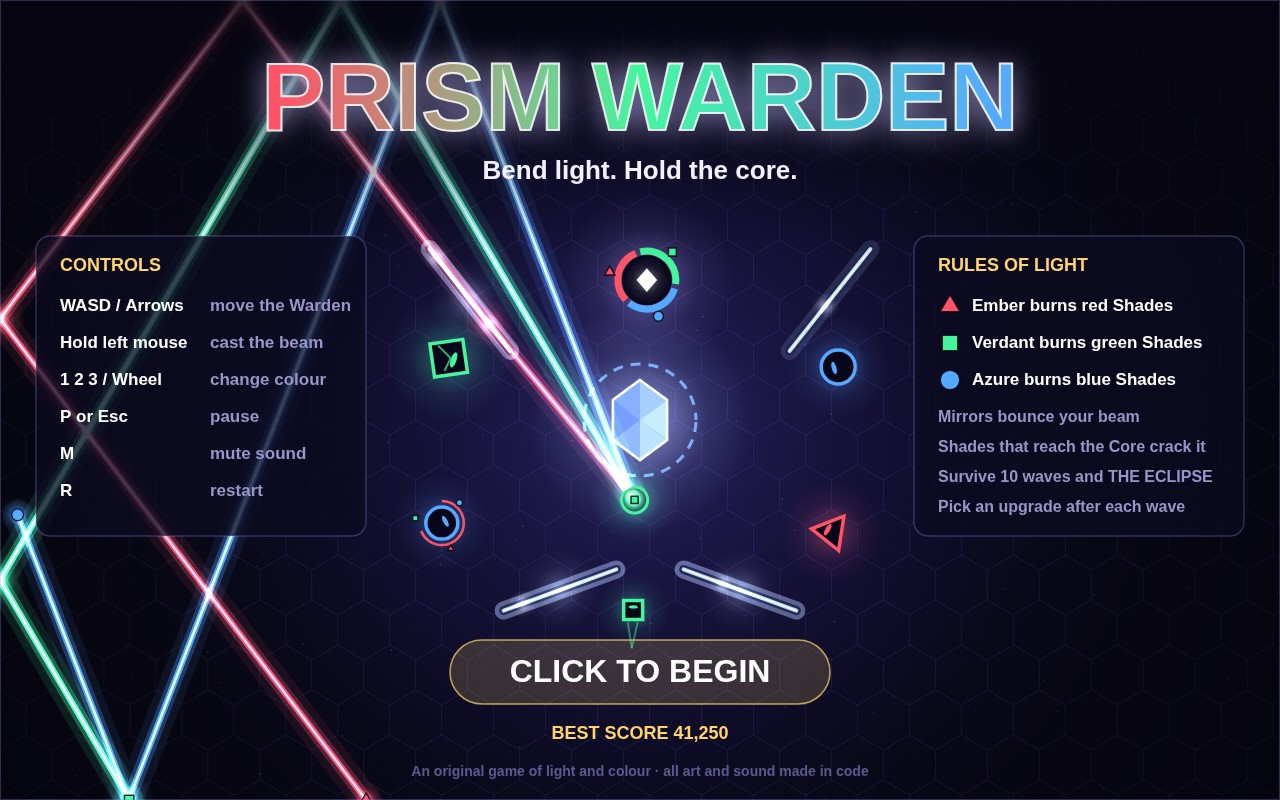
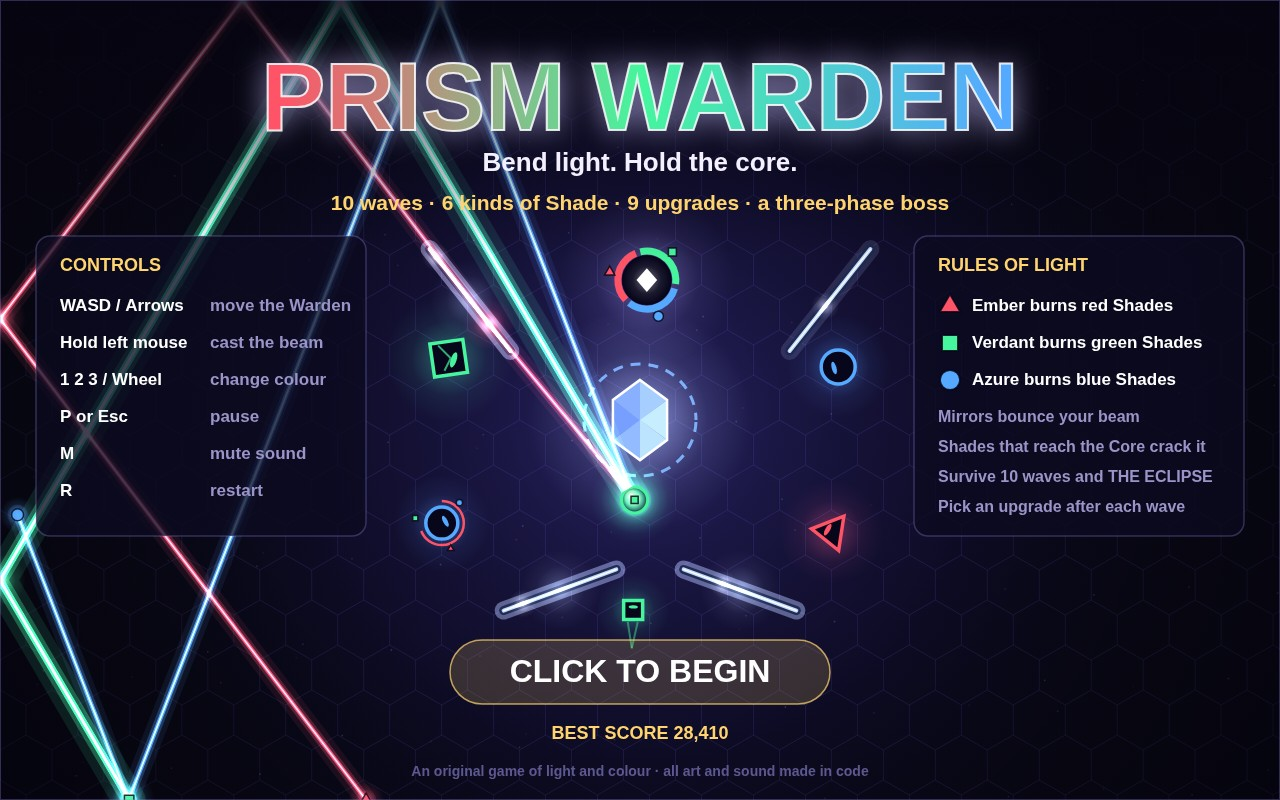
One best-score story across screenshots, readable cover beams, real boss-fight scene, depth line on title
- Shot scenes share one recorded best (28,410): title and play HUD show it, the winning run beats it (results show NEW BEST over PREVIOUS BEST); hard-coded 41,250 removed
- Cover framing requires a long main beam from the Warden in the selected colour plus long Prism branches and bounces, and nothing over the Core; main beam drawn thicker with a muzzle flare, branches thinner
- Combo milestone pop moves beside the combo counter instead of over the Warden/Core
- ?shot=boss now searches for a real fight frame (matching colour on THE ECLIPSE, branches, multi-colour minions, phase bar mid-way, label clear) using a boss-focused pilot
- Title adds '10 waves · 6 kinds of Shade · 9 upgrades · a three-phase boss' computed from the code

diff --git a/game/js/shots.js b/game/js/shots.js
@@ -1,28 +1,33 @@
 // Screenshot scenes behind ?shot=title|play|upgrade|boss|results|defeat&seed=n: the real game played forward by the autopilot at fixed steps, frozen on the moment.
-import { STEP } from './config.js';
+import { CORE_X, CORE_Y, STEP } from './config.js';
 import { autopilotControls, autopilotPick, createPilot } from './autopilot.js';
 import { beginWave, createWorld, stepWorld } from './world.js';
 import { applyUpgrade, dealUpgradeCards } from './upgrades.js';
-import { liveParticleCount, updateEffects, clearEffects } from './particles.js';
+import { clearEffects, floatersNear, liveParticleCount, updateEffects } from './particles.js';
+import { loadBestScore, saveBestScore } from './storage.js';
 import { simRandom } from './random.js';
 import { updateTitleScene } from './screens.js';
 
 /** The upgrades a shot's pilot prefers: the ones that show off split and reflected light. */
 const SHOT_PICKS = ['prism', 'reflect', 'lens', 'focus', 'chain', 'bastion', 'lance', 'harvest', 'swift'];
 const MAX_SECONDS = 60 * 12;
+/**
+ * The best score already on record in every scene's browser profile, so the four screenshots tell one story:
+ * the title and the play HUD show it, and the winning run on the results beats it.
+ */
+const RECORDED_BEST = 28410;
 
 /**
  * Plays a run with the autopilot until `stop(world, step)` says so (checked once a step), taking upgrades on the way.
  * Returns the world, or null if the run ended or ran out of time first.
  */
-function playUntil(seed, stop, picks = SHOT_PICKS) {
+function playUntil(seed, stop, pilot = createPilot(0)) {
   const world = createWorld(seed);
-  const pilot = createPilot(0);
   for (let step = 0; step < MAX_SECONDS / STEP; step += 1) {
     if (world.state === 'cleared' && world.stateTime > 1.3) {
       if (stop(world, step)) return world;
       const hand = dealUpgradeCards(world.upgrades, simRandom, world.core.hp / world.core.maxHp);
-      const preferred = picks.find((id) => hand.includes(id));
+      const preferred = SHOT_PICKS.find((id) => hand.includes(id));
       applyUpgrade(world, preferred ?? hand[autopilotPick(hand, world.upgrades)]);
       beginWave(world, world.wave + 1);
     }
@@ -35,40 +40,100 @@ function playUntil(seed, stop, picks = SHOT_PICKS) {
   return null;
 }
 
-/**
- * How striking a mid-run frame is: many Shades of several kinds on screen, split and bounced beams, a live combo,
- * particles. Frames that would hide the HUD story (a banner, a hurt Core, the Warden under a panel) score -1.
- */
-function dramaScore(world) {
-  if (world.wave !== 7 || world.state !== 'fight' || world.banner) return -1;
-  const warden = world.warden;
-  if (world.core.hp < world.core.maxHp * 0.6 || warden.y < 150 || warden.y > 680 || world.beams.length < 3) return -1;
-  const onScreen = world.shades.filter((s) => !s.dead && s.x > 20 && s.x < 1260 && s.y > 110 && s.y < 720);
-  const kinds = new Set(onScreen.map((s) => s.kind)).size;
-  const bounces = world.beams.reduce((sum, beam) => sum + beam.bounces.length / 2, 0);
-  const hits = world.beams.reduce((sum, beam) => sum + beam.hits.length, 0);
-  return onScreen.length + kinds * 3 + Math.min(bounces, 5) * 3 + hits * 2 + Math.min(world.combo, 40) / 2 + liveParticleCount() / 60;
+/** Length of a beam's polyline, and of its first leg (the part that leaves the Warden). */
+function beamLengths(beam) {
+  let total = 0;
+  let first = 0;
+  for (let i = 2; i < beam.points.length; i += 2) {
+    const leg = Math.hypot(beam.points[i] - beam.points[i - 2], beam.points[i + 1] - beam.points[i - 1]);
+    if (i === 2) first = leg;
+    total += leg;
+  }
+  return { total, first };
 }
 
-/** Plays wave 7 once to find its most dramatic step, then replays the same seed to exactly that step. */
-function mostDramaticMoment(seed) {
+/** Facts shared by both mid-run framings: Shades on screen, kinds, colours, bounces, hits. */
+function frameFacts(world) {
+  const onScreen = world.shades.filter((s) => !s.dead && s.kind !== 'eclipse' && s.x > 20 && s.x < 1260 && s.y > 110 && s.y < 720);
+  return {
+    onScreen,
+    kinds: new Set(onScreen.map((s) => s.kind)).size,
+    colours: new Set(onScreen.map((s) => s.colour)).size,
+    bounces: world.beams.reduce((sum, beam) => sum + beam.bounces.length / 2, 0),
+    hits: world.beams.reduce((sum, beam) => sum + beam.hits.length, 0),
+  };
+}
+
+/** True when the beams read at a glance: a long main beam leaving the Warden, and every Prism branch long too. */
+function beamsReadable(world, mainFirst, branchTotal, minBeams) {
+  if (world.beams.length < minBeams) return false;
+  const [main, ...branches] = world.beams.map(beamLengths);
+  return main.first >= mainFirst && branches.every((b) => b.total >= branchTotal);
+}
+
+/**
+ * How striking a wave-7 frame is. Frames that would muddle the story score -1: a banner, a hurt Core, text over the
+ * Core, the Warden under a HUD panel, a short main beam or stubby branches.
+ */
+function waveDrama(world) {
+  if (world.wave !== 7 || world.state !== 'fight' || world.banner) return -1;
+  const warden = world.warden;
+  if (world.core.hp < world.core.maxHp * 0.6 || warden.y < 150 || warden.y > 660 || warden.x < 60 || warden.x > 1220) return -1;
+  if (floatersNear(CORE_X, CORE_Y, 90) > 0 || !beamsReadable(world, 220, 200, 3)) return -1;
+  const main = beamLengths(world.beams[0]);
+  const facts = frameFacts(world);
+  if (facts.bounces < 2 || main.total < 400 || world.combo < 5 || facts.onScreen.length < 10) return -1;
+  return Math.min(main.total, 700) / 70 + facts.onScreen.length + facts.kinds * 3 + Math.min(facts.bounces, 5) * 3 + facts.hits * 2
+    + Math.min(world.combo, 40) / 2 + liveParticleCount() / 60;
+}
+
+/**
+ * How striking a boss frame is: the Warden casting THE ECLIPSE's own colour into it, branches and bounces,
+ * minions of several colours, its phase bar mid-way, and its name label clear of everything.
+ */
+function bossDrama(world) {
+  const boss = world.boss;
+  if (world.wave !== 10 || world.state !== 'fight' || world.banner || !boss || boss.dead || boss.entering > 0) return -1;
+  if (boss.phase !== 1 || boss.hp > boss.maxHp * 0.7 || boss.hp < boss.maxHp * 0.3) return -1;
+  const warden = world.warden;
+  const main = world.beams[0];
+  if (!main || main.colour !== boss.colour || !main.hits.some((hit) => hit.shade === boss)) return -1;
+  if (boss.x < 160 || boss.x > 1120 || boss.y < 230 || boss.y > 600 || warden.y < 150 || warden.y > 660) return -1;
+  if (floatersNear(CORE_X, CORE_Y, 90) > 0 || !beamsReadable(world, 120, 160, 2)) return -1;
+  const label = { left: boss.x - 80, right: boss.x + 80, top: boss.y + boss.r + 14, bottom: boss.y + boss.r + 52 };
+  const blocksLabel = (x, y, r) => x + r > label.left && x - r < label.right && y + r > label.top && y - r < label.bottom;
+  if (blocksLabel(warden.x, warden.y, warden.r + 6) || world.shades.some((s) => !s.dead && s !== boss && blocksLabel(s.x, s.y, s.r))) return -1;
+  if (world.beams.some((beam) => beam.points.some((v, i) => i % 2 === 0 && blocksLabel(v, beam.points[i + 1], 4)))) return -1;
+  const facts = frameFacts(world);
+  if (facts.onScreen.length < 3 || facts.colours < 2) return -1;
+  return facts.onScreen.length * 2 + world.beams.length * 6 + facts.colours * 4 + facts.kinds * 2 + Math.min(facts.bounces, 5) * 3 + facts.hits * 2
+    + (world.core.hp / world.core.maxHp) * 12 + liveParticleCount() / 60;
+}
+
+/**
+ * Plays the run once, scoring every step with `drama`, until `done(world)`; then replays the same seed to exactly
+ * the best-scoring step (the rules are deterministic, so the replay lands on the same frame).
+ */
+function mostDramaticMoment(seed, drama, done, makePilot) {
   let bestStep = -1;
   let bestScore = 0;
   playUntil(seed, (world, step) => {
-    const score = dramaScore(world);
+    const score = drama(world);
     if (score > bestScore) {
       bestScore = score;
       bestStep = step;
     }
-    return world.wave > 7 || (world.wave === 7 && world.state === 'cleared');
-  });
+    return done(world);
+  }, makePilot());
   if (bestStep < 0) return null;
   clearEffects();
-  return playUntil(seed, (world, step) => step === bestStep);
+  return playUntil(seed, (world, step) => step === bestStep, makePilot());
 }
 
 /** Sets up scene `kind` from `seed`, draws it once and flags `window.__shotReady` for the capture script. */
 export function runShotScene(game, kind, seed, hooks) {
+  saveBestScore(RECORDED_BEST);
+  game.best = Math.max(loadBestScore(), RECORDED_BEST);
   let world = null;
   for (let attempt = 0; attempt < 6 && !world; attempt += 1) {
     const runSeed = seed + attempt * 101;
@@ -80,12 +145,14 @@ export function runShotScene(game, kind, seed, hooks) {
           updateEffects(STEP);
         }
         game.time = 4.6;
-        game.best = Math.max(game.best, 41250);
         hooks.setMode('title');
         world = game.titleScene;
         break;
       case 'play':
-        world = mostDramaticMoment(runSeed);
+      case 'boss':
+        world = kind === 'play'
+          ? mostDramaticMoment(runSeed, waveDrama, (w) => w.wave > 7 || (w.wave === 7 && w.state === 'cleared'), () => createPilot(0))
+          : mostDramaticMoment(runSeed, bossDrama, (w) => w.wave === 10 && w.boss && (w.boss.dead || w.boss.phase > 1), () => createPilot(0, 0, true));
         if (world) {
           game.world = world;
           game.colour = world.warden.colour;
@@ -102,14 +169,6 @@ export function runShotScene(game, kind, seed, hooks) {
           hooks.setMode('upgrade');
         }
         break;
-      case 'boss':
-        world = playUntil(runSeed, (w) => w.boss && !w.boss.dead && w.boss.phase === 1 && w.boss.hp < w.boss.maxHp * 0.7 && w.beams.length > 0);
-        if (world) {
-          game.world = world;
-          game.colour = world.warden.colour;
-          hooks.setMode('play');
-        }
-        break;
       case 'results':
       case 'defeat': {
         const wanted = kind === 'results' ? 'won' : 'lost';
@@ -118,8 +177,9 @@ export function runShotScene(game, kind, seed, hooks) {
           : playIdleUntilLost(runSeed);
         if (world && world.state === wanted) {
           game.world = world;
-          game.newBest = true;
-          game.best = world.score;
+          game.previousBest = game.best;
+          game.newBest = world.score > game.best;
+          game.best = Math.max(saveBestScore(world.score), world.score, game.best);
           game.time = 0.25;
           hooks.setMode('results');
         } else {
@@ -134,7 +194,7 @@ export function runShotScene(game, kind, seed, hooks) {
   }
   hooks.drawFrame();
   window.__shotReady = true;
-  window.__shotScene = { kind, found: Boolean(world) };
+  window.__shotScene = { kind, found: Boolean(world), seed: world?.seed, wave: world?.wave, score: world?.score, best: game.best };
 }
 
 /** A run where the Warden never casts: the Shades reach the Core and it shatters. */

diff --git a/game/js/screens.js b/game/js/screens.js
@@ -5,7 +5,8 @@ import { drawPanel } from './hud.js';
 import { drawWorld } from './render.js';
 import { makeMirror } from './arena.js';
 import { castBeams } from './beam.js';
-import { createShade } from './shades.js';
+import { createShade, SHADE_KINDS } from './shades.js';
+import { ECLIPSE_PHASES } from './boss.js';
 import { createUpgradeLevels, upgradeById, UPGRADES } from './upgrades.js';
 import { WAVE_PLAN } from './waves.js';
 import { colourAccuracy } from './world.js';
@@ -119,7 +120,10 @@ export function drawTitle(ctx, scene, best, time) {
   ctx.strokeStyle = 'rgba(255,255,255,0.85)';
   ctx.strokeText('PRISM WARDEN', ARENA_W / 2, 104);
   ctx.restore();
-  text(ctx, 'Bend light. Hold the core.', ARENA_W / 2, 172, 26, '#f4f0ff', 'center', 600);
+  text(ctx, 'Bend light. Hold the core.', ARENA_W / 2, 164, 26, '#f4f0ff', 'center', 600);
+  const shadeKinds = Object.keys(SHADE_KINDS).filter((kind) => kind !== 'eclipse').length;
+  const phases = ['one', 'two', 'three', 'four'][ECLIPSE_PHASES.length - 1] ?? ECLIPSE_PHASES.length;
+  text(ctx, `${TOTAL_WAVES} waves · ${shadeKinds} kinds of Shade · ${UPGRADES.length} upgrades · a ${phases}-phase boss`, ARENA_W / 2, 204, 21, PALETTE.gold, 'center', 800);
 
   drawPanel(ctx, 36, 236, 330, 300, 14);
   text(ctx, 'CONTROLS', 60, 266, 18, PALETTE.gold, 'left');
@@ -242,7 +246,7 @@ function drawBuild(ctx, levels, cx, y, label) {
 
 // ----- Results ------------------------------------------------------------------------------------------------
 
-export function drawResults(ctx, world, best, isNewBest, time) {
+export function drawResults(ctx, world, best, isNewBest, previousBest, time) {
   drawWorld(ctx, world, time, false);
   const won = world.state === 'won';
   dim(ctx, won ? 0.5 : 0.66);
@@ -271,7 +275,7 @@ export function drawResults(ctx, world, best, isNewBest, time) {
   ctx.fillRect(panelX + 30, 434, 540, 1.5);
   text(ctx, 'SCORE', panelX + 40, 468, 22, PALETTE.gold, 'left', 800);
   text(ctx, world.score.toLocaleString('en-US'), panelX + 560, 470, 42, '#ffffff', 'right', 900);
-  text(ctx, `BEST ${best.toLocaleString('en-US')}`, panelX + 40, 512, 18, PALETTE.dim, 'left', 700);
+  text(ctx, isNewBest ? `PREVIOUS BEST ${previousBest.toLocaleString('en-US')}` : `BEST ${best.toLocaleString('en-US')}`, panelX + 40, 512, 18, PALETTE.dim, 'left', 700);
   if (isNewBest) {
     const pop = 1 + 0.06 * Math.sin(time * 6);
     ctx.save();

diff --git a/game/js/autopilot.js b/game/js/autopilot.js
@@ -6,14 +6,14 @@ import { partStruck } from './shades.js';
 const PICK_ORDER = ['prism', 'focus', 'reflect', 'lens', 'chain', 'bastion', 'focus', 'lance', 'harvest', 'swift'];
 
 /** The most urgent Shade: soonest to reach the Core, with the boss last unless it is alone. */
-function mostUrgentShade(world) {
+function mostUrgentShade(world, bossFocus) {
   let target = null;
   let soonest = Infinity;
   for (const shade of world.shades) {
     if (shade.dead) continue;
     if (shade.x < -10 || shade.x > 1290 || shade.y < -10 || shade.y > 810) continue;
     let eta = (Math.hypot(shade.x - CORE_X, shade.y - CORE_Y) - 40) / Math.max(20, shade.speed);
-    if (shade.kind === 'eclipse') eta = shade.entering > 0 ? Infinity : 25;
+    if (shade.kind === 'eclipse') eta = shade.entering > 0 ? Infinity : bossFocus ? 3.5 : 25;
     if (shade.kind === 'bulwark') eta *= 0.8;
     if (eta < soonest) {
       soonest = eta;
@@ -36,8 +36,8 @@ function colourFor(world, shade) {
 }
 
 /** A pilot's memory: it re-thinks its target every `reaction` seconds, as a person would (0 = instantly). */
-export function createPilot(reaction = 0, aimError = 0) {
-  return { reaction, aimError, timer: 0, target: null, colour: 0, clock: 0 };
+export function createPilot(reaction = 0, aimError = 0, bossFocus = false) {
+  return { reaction, aimError, bossFocus, timer: 0, target: null, colour: 0, clock: 0 };
 }
 
 /** Controls for one step: {moveX, moveY, aimX, aimY, casting, colour}. */
@@ -47,7 +47,7 @@ export function autopilotControls(world, pilot = createPilot(0), dt = 1 / 60) {
   pilot.clock += dt;
   if (pilot.timer <= 0 || !pilot.target || pilot.target.dead) {
     pilot.timer = pilot.reaction;
-    pilot.target = mostUrgentShade(world);
+    pilot.target = mostUrgentShade(world, pilot.bossFocus);
     if (pilot.target) pilot.colour = colourFor(world, pilot.target);
   }
   const target = pilot.target && !pilot.target.dead ? pilot.target : null;

diff --git a/game/js/world.js b/game/js/world.js
@@ -1,5 +1,5 @@
 // One run of Prism Warden: the run's state and its fixed step (steering, spawns, beams, damage, combo, the Core, win and loss).
-import { COMBO_TUNING, CORE_BASE_HP, CORE_RADIUS, CORE_X, CORE_Y, LIGHTS, TOTAL_WAVES, WHITE } from './config.js';
+import { ARENA_W, COMBO_TUNING, CORE_BASE_HP, CORE_RADIUS, CORE_X, CORE_Y, LIGHTS, TOTAL_WAVES, WHITE } from './config.js';
 import { createWarden, steerWarden, beamOrigin } from './warden.js';
 import { castBeams } from './beam.js';
 import { createShade, lightHarms, moveShades } from './shades.js';
@@ -258,7 +258,7 @@ function killShade(world, shade, colour, depth) {
   burst(shade.x, shade.y, '255,255,255', 6, 150, 0.35, 2.5);
   world.events.push({ type: 'kill', colour, combo: world.combo });
   if (world.combo > 0 && world.combo % 10 === 0) {
-    floatText(world.warden.x, world.warden.y - 34, `${world.combo} COMBO · x${multiplier}`, '#ffd46e', 22, 1.3);
+    floatText(ARENA_W - 166, 150, `${world.combo} COMBO · x${multiplier}`, '#ffd46e', 22, 1.3);
   }
 
   if (shade.kind === 'splitter') {

diff --git a/game/js/render.js b/game/js/render.js
@@ -438,7 +438,7 @@ function drawBeams(ctx, beams, time) {
   const flicker = 1 + 0.08 * Math.sin(time * 47);
   for (const beam of beams) {
     const light = LIGHTS[beam.colour];
-    const width = beam.halfWidth * flicker;
+    const width = beam.halfWidth * flicker * (beam.power < 1 ? 0.7 : 1.15);
     ctx.beginPath();
     ctx.moveTo(beam.points[0], beam.points[1]);
     for (let i = 2; i < beam.points.length; i += 2) ctx.lineTo(beam.points[i], beam.points[i + 1]);
@@ -457,6 +457,9 @@ function drawBeams(ctx, beams, time) {
     }
     drawGlow(ctx, beam.endX, beam.endY, beam.blocked ? 34 : 18, light.rgb, 1);
   }
+  const main = beams[0];
+  drawGlow(ctx, main.points[0], main.points[1], 34, LIGHTS[main.colour].rgb, 1);
+  drawGlow(ctx, main.points[0], main.points[1], 12, '255,255,255', 0.9);
   ctx.globalCompositeOperation = 'source-over';
   for (const beam of beams) drawLightGlyph(ctx, beam.colour, beam.endX, beam.endY, 6, 0.95);
   ctx.restore();

diff --git a/game/js/main.js b/game/js/main.js
@@ -26,6 +26,7 @@ const game = {
   hovered: -1,
   best: loadBestScore(),
   newBest: false,
+  previousBest: 0,
   colour: 0,
   time: 0,
   modeTime: 0,
@@ -225,6 +226,7 @@ function stepGame(dt) {
       setMusicMood('calm');
     }
     if (game.mode === 'play' && (world.state === 'won' || world.state === 'lost') && world.stateTime > 2.4) {
+      game.previousBest = game.best;
       game.newBest = world.score > game.best;
       game.best = saveBestScore(world.score);
       setMode('results');
@@ -255,7 +257,7 @@ export function drawFrame() {
       drawUpgradeChoice(ctx, world, game.hand, game.hovered, game.time);
       break;
     case 'results':
-      drawResults(ctx, world, game.best, game.newBest, game.time);
+      drawResults(ctx, world, game.best, game.newBest, game.previousBest, game.time);
       break;
     default:
       drawWorld(ctx, world, game.time, game.mode === 'play');

diff --git a/game/js/particles.js b/game/js/particles.js
@@ -107,6 +107,13 @@ export function updateEffects(dt) {
   }
 }
 
+/** Floating texts whose centre is within `radius` of (x, y). */
+export function floatersNear(x, y, radius) {
+  let count = 0;
+  for (const f of floaters) if (f.live && Math.hypot(f.x - x, f.y - y) < radius) count += 1;
+  return count;
+}
+
 export function clearEffects() {
   for (const p of particles) p.live = false;
   for (const f of floaters) f.live = false;
